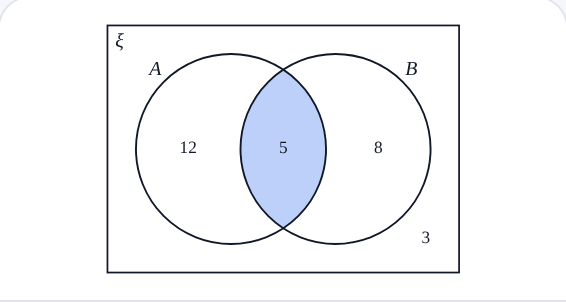
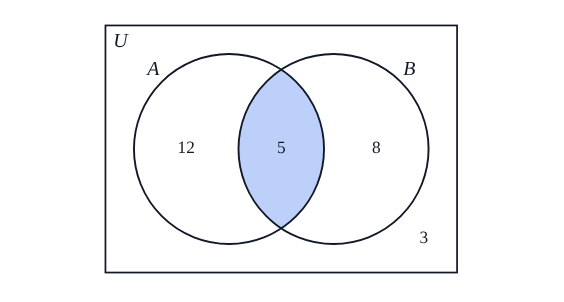
Math Figures: Venn Diagram: commas split text into lines, U by default, no readout
Text typed in a region is split at its commas (not inside brackets) and
stacked one piece to a line, as in a compare-and-contrast Venn of a tomato
and an apple, which is a new example. The region boxes are plain text now,
since the math field dropped the spaces between words, and the settings
column is 40% wide for them. The universal set is marked U unless the
teacher picks ξ. The blue readout of n(…) values under the regions is gone.

diff --git a/apps/math/src/lib/examples/examples.ts b/apps/math/src/lib/examples/examples.ts
@@ -1280,17 +1280,17 @@ export const EXAMPLES: Example[] = [
     {
       slug: 'venn-diagram-football-and-tennis',
       title: 'Venn diagram with numbers: football and tennis',
-      alt: 'A Venn diagram of two overlapping circles, Football and Tennis, in a box marked ξ, with 12 in Football only, 5 in both, 8 in Tennis only and 15 outside',
+      alt: 'A Venn diagram of two overlapping circles, Football and Tennis, in a box marked U, with 12 in Football only, 5 in both, 8 in Tennis only and 15 outside',
       caption:
-        'Two overlapping circles named Football and Tennis inside a box marked ξ for the universal set, with the number of students in each region: 12 play football only, 5 play both, 8 play tennis only, and 15, written outside the circles in the lower left corner, play neither. Students read off totals, such as how many play football, or probabilities.',
+        'Two overlapping circles named Football and Tennis inside a box marked U for the universal set, with the number of students in each region: 12 play football only, 5 play both, 8 play tennis only, and 15, written outside the circles in the lower left corner, play neither. Students read off totals, such as how many play football, or probabilities.',
       settings: { nameA: 'Football', nameB: 'Tennis', values: { a: '12', ab: '5', b: '8', out: '15' } },
     },
     {
       slug: 'three-set-venn-diagram-with-numbers',
       title: 'Three-set Venn diagram with numbers: pets',
-      alt: 'A three-set Venn diagram of Cat, Dog and Fish in a box marked ξ, with a number in each of its eight regions',
+      alt: 'A three-set Venn diagram of Cat, Dog and Fish in a box marked U, with a number in each of its eight regions',
       caption:
-        'Three overlapping circles named Cat, Dog and Fish inside a box marked ξ, with the number of students owning each mix of pets in every region: 9 cat only, 7 dog only, 3 fish only, 4 cat and dog only, 2 cat and fish only, 1 dog and fish only, 2 all three, and 5, in the lower right corner, none of them.',
+        'Three overlapping circles named Cat, Dog and Fish inside a box marked U, with the number of students owning each mix of pets in every region: 9 cat only, 7 dog only, 3 fish only, 4 cat and dog only, 2 cat and fish only, 1 dog and fish only, 2 all three, and 5, in the lower right corner, none of them.',
       settings: {
         sets: 3,
         nameA: 'Cat',
@@ -1304,7 +1304,7 @@ export const EXAMPLES: Example[] = [
       title: 'Venn diagram sorting the numbers 1 to 20: even numbers and multiples of 3',
       alt: 'A Venn diagram sorting the numbers 1 to 20 into two overlapping circles, Even and Multiples of 3, with the numbers in neither outside the circles',
       caption:
-        'The numbers 1 to 20 sorted into two overlapping circles named Even and Multiples of 3, inside a box marked ξ. 2, 4, 8, 10, 14, 16 and 20 are in Even only; 6, 12 and 18 are in both; 3, 9 and 15 are in Multiples of 3 only; and 1, 5, 7, 11, 13, 17 and 19 are outside both circles, in the lower right corner.',
+        'The numbers 1 to 20 sorted into two overlapping circles named Even and Multiples of 3, inside a box marked U. 2, 4, 8, 10, 14, 16 and 20 are in Even only; 6, 12 and 18 are in both; 3, 9 and 15 are in Multiples of 3 only; and 1, 5, 7, 11, 13, 17 and 19 are outside both circles, in the lower right corner.',
       settings: {
         mode: 'elements',
         nameA: 'Even',
@@ -1325,9 +1325,9 @@ export const EXAMPLES: Example[] = [
     {
       slug: 'venn-diagram-shade-a-intersect-b-complement',
       title: 'Venn diagram with A ∩ B′ shaded',
-      alt: 'A Venn diagram of two overlapping circles, A and B, in a box marked ξ, with the part of A outside B hatched and nothing written in the regions',
+      alt: 'A Venn diagram of two overlapping circles, A and B, in a box marked U, with the part of A outside B hatched and nothing written in the regions',
       caption:
-        'Two overlapping circles named A and B inside a box marked ξ, with the region in A but not in B, A ∩ B′, shaded with diagonal hatching that photocopies well. Nothing is written in the regions, so students write the set notation for the shaded region.',
+        'Two overlapping circles named A and B inside a box marked U, with the region in A but not in B, A ∩ B′, shaded with diagonal hatching that photocopies well. Nothing is written in the regions, so students write the set notation for the shaded region.',
       settings: { shaded: ['a'], shade: 'hatch' },
     },
     {
@@ -1335,8 +1335,22 @@ export const EXAMPLES: Example[] = [
       title: 'Venn diagram of probabilities: find x',
       alt: 'A Venn diagram of probabilities with 0.3 in A only, x in the overlap of A and B, 0.25 in B only and 0.15 outside both circles',
       caption:
-        'Two overlapping circles named A and B inside a box marked ξ, with a probability in each region: 0.3 in A only, the unknown x in the overlap, 0.25 in B only, and 0.15 outside both circles in the lower right corner. Students find x, then probabilities such as P(A ∪ B).',
+        'Two overlapping circles named A and B inside a box marked U, with a probability in each region: 0.3 in A only, the unknown x in the overlap, 0.25 in B only, and 0.15 outside both circles in the lower right corner. Students find x, then probabilities such as P(A ∪ B).',
       settings: { mode: 'text', values: { a: '0.3', ab: 'x', b: '0.25', out: '0.15' } },
+    },
+    {
+      slug: 'compare-and-contrast-venn-diagram-tomato-and-apple',
+      title: 'Compare and contrast Venn diagram: tomato and apple',
+      alt: 'A Venn diagram comparing Tomato and Apple, with red flesh, mushy and savory in Tomato only, fruit, round and smooth-skinned in both, and white flesh, firm and sweet in Apple only',
+      caption:
+        'Two overlapping circles named Tomato and Apple, used to compare and contrast. Tomato only lists red flesh, mushy and savory, one to a line; the overlap lists fruit, round and smooth-skinned; Apple only lists white flesh, firm and sweet. The box round them has no symbol for the universal set.',
+      settings: {
+        mode: 'text',
+        nameA: 'Tomato',
+        nameB: 'Apple',
+        universe: 'none',
+        values: { a: 'red flesh, mushy, savory', ab: 'fruit, round, smooth-skinned', b: 'white flesh, firm, sweet' },
+      },
     },
   ]),
 

diff --git a/apps/math/src/lib/generators/venn-diagram/Generator.svelte b/apps/math/src/lib/generators/venn-diagram/Generator.svelte
@@ -13,7 +13,6 @@
   import PickLayer from '$lib/labeling/PickLayer.svelte'
   import Popover from '$lib/labeling/Popover.svelte'
   import type { Part } from '$lib/labeling/pick.js'
-  import MathInput from '$lib/shared/MathInput.svelte'
   import { buildVenn } from './layout.js'
   import VennDiagram from './VennDiagram.svelte'
   import {
@@ -100,7 +99,8 @@
   <input type="checkbox" class="shade" aria-label="Shade {regionName(clean, k)}" checked={isShaded(k)} onchange={(e) => setShaded(k, e.currentTarget.checked)} />
 {/snippet}
 
-<GeneratorPage name="Venn Diagram Generator" {filename} {gen} {svg} bind:labelSize={s.labelSize}>
+<!-- 40% of the window for the settings: the regions take typed text. -->
+<GeneratorPage name="Venn Diagram Generator" {filename} {gen} settingsWidth="minmax(28rem, 40%)" {svg} bind:labelSize={s.labelSize}>
   {#snippet inputs()}
     <section class="card-body">
       <div class="head-row">
@@ -108,7 +108,7 @@
         <HelpTip id="venn-tip" label="How to fill in the diagram">
           Numbers puts one number in each region, such as how many people are in it. Elements sorts lists into the regions for
           you: type the universal set and each set's members with commas between, or a range like 1-20. Repeat an element to
-          put it in twice, as for prime factors. Text writes a letter or expression in each region, like x or 2x + 1. Leave a
+          put it in twice, as for prime factors. Text writes words, a letter or an expression in each region, like x, 2x + 1 or 3/20; commas split it into lines, as in red flesh, mushy, savory. Leave a
           region empty for students to fill in. Click any region on the figure to fill it in or shade it.
         </HelpTip>
       </div>
@@ -118,7 +118,7 @@
 
       {#if clean.mode === 'elements'}
         <div class="lists">
-          <span class="set-name universe" class:word={[...universeText(clean)].length > 1} aria-hidden="true">{universeText(clean) || 'ξ'}</span>
+          <span class="set-name universe" class:word={[...universeText(clean)].length > 1} aria-hidden="true">{universeText(clean) || 'U'}</span>
           <input type="text" aria-label="Members of the universal set" placeholder="1-20" bind:value={s.universeList} />
           {#each NAME_KEYS.slice(0, clean.sets) as key, i}
             <input type="text" class="set-name" aria-label="Name of set {LETTERS[i]}" placeholder={LETTERS[i]} bind:value={s[key]} />
@@ -152,7 +152,7 @@
                 bind:value={() => value(k), (v) => setValue(k, v)}
               />
             {:else}
-              <MathInput id="region-{k}" bind:value={() => value(k), (v) => setValue(k, v)} />
+              <input type="text" class="text" id="region-{k}" bind:value={() => value(k), (v) => setValue(k, v)} />
             {/if}
             {@render shadeBox(k)}
             {#if read.problems.values[k]}<p class="help problem wide">{read.problems.values[k]}</p>{/if}
@@ -160,12 +160,6 @@
         </div>
       {/if}
 
-      {#if read.readout.counts.length || read.readout.members.length}
-        <dl class="readout">
-          {#each read.readout.counts as line}<div><dt>{line.label}</dt><dd>{line.value}</dd></div>{/each}
-          {#each read.readout.members as line}<div class="members"><dt>{line.label}</dt><dd>{line.value}</dd></div>{/each}
-        </dl>
-      {/if}
       {#if drawing.problem}<p class="help problem">{drawing.problem}</p>{/if}
     </section>
   {/snippet}
@@ -213,7 +207,7 @@
     {:else if clean.mode === 'text'}
       <div class="group">
         <span class="name" id="pop-text">Text</span>
-        <MathInput aria-labelledby="pop-text" bind:value={() => value(k), (v) => setValue(k, v)} />
+        <input type="text" aria-labelledby="pop-text" bind:value={() => value(k), (v) => setValue(k, v)} />
       </div>
     {/if}
     <label class="check">
@@ -260,13 +254,6 @@
   .shade { justify-self: center; width: 1.05rem; height: 1.05rem; margin: 0 0.6rem; accent-color: var(--blue); }
 
   /* The counts run on in lines, each kept whole where it fits; each region's members get a line of their own. */
-  .readout { margin: 0; padding: 0.55rem 0.75rem; border-radius: 10px; background: var(--blue-soft); font-size: 0.85rem; font-weight: 600; display: flex; flex-wrap: wrap; gap: 0.2rem 1.1rem; }
-  .readout div { min-width: 0; overflow-wrap: anywhere; }
-  .readout dt, .readout dd { display: inline; margin: 0; }
-  .readout dd::before { content: ' = '; }
-  .readout .members { flex-basis: 100%; }
-  .readout .members dt::after { content: ': '; }
-  .readout .members dd::before { content: none; }
 
   .stage { position: relative; }
   .check { display: flex; align-items: center; gap: 0.5rem; font-weight: 600; font-size: 0.88rem; margin: 0; cursor: pointer; }

diff --git a/apps/math/src/lib/generators/venn-diagram/venn-diagram.test.ts b/apps/math/src/lib/generators/venn-diagram/venn-diagram.test.ts
@@ -3,7 +3,7 @@ import { EXAMPLES } from '$lib/examples/examples'
 import { buildVenn } from './layout.js'
 import { buildRegions, circlesFor, maskAt, pathCovers, type Vec } from './regions.js'
 import {
-  cleanSettings, maskOf, parseList, readVenn, regionsOf, settingsFromParams, settingsToQuery, sortElements, type RawSettings,
+  cleanSettings, maskOf, parseList, readVenn, regionsOf, settingsFromParams, settingsToQuery, sortElements, splitAtCommas, type RawSettings,
 } from './settings.js'
 
 const venn = (s: RawSettings) => buildVenn(cleanSettings(s))
@@ -117,7 +117,7 @@ describe('numbers and text', () => {
 
   test('the readout adds up the regions, leaving out sums with a region unknown', () => {
     const lines = (s: RawSettings) => readVenn(cleanSettings(s)).readout.counts.map((l) => `${l.label} = ${l.value}`)
-    expect(lines({ values: { a: '12', ab: '5', b: '8', out: '3' } })).toEqual(['n(ξ) = 28', 'n(A) = 17', 'n(B) = 13', 'n(A ∩ B) = 5', 'n(A ∪ B) = 25'])
+    expect(lines({ values: { a: '12', ab: '5', b: '8', out: '3' } })).toEqual(['n(U) = 28', 'n(A) = 17', 'n(B) = 13', 'n(A ∩ B) = 5', 'n(A ∪ B) = 25'])
     expect(lines({ values: { a: '12', ab: '5' } })).toEqual(['n(A) = 17', 'n(A ∩ B) = 5'])
     expect(lines({ mode: 'text', values: { a: '12', ab: '5', b: '8', out: '3' } })).toEqual([])
     const three = lines({ sets: 3, nameA: 'Cats', universe: 'U', values: { a: '1', b: '2', ab: '3', c: '4', ac: '5', bc: '6', abc: '7', out: '8' } })
@@ -153,10 +153,10 @@ describe('elements', () => {
     expect(r).toEqual({ ac: ['Ben'], abc: ['Cal'], b: ['Dee'], a: ['Ann'] })
   })
 
-  test('an element missing from ξ, or in two separate sets, is a problem', () => {
+  test('an element missing from the universal set, or in two separate sets, is a problem', () => {
     const problem = (s: RawSettings) => sortElements(cleanSettings({ mode: 'elements', ...s })).problem
-    expect(problem({ universeList: '1-10', listA: '2, 12' })).toBe('12 is in A but not in ξ. Add it to ξ, or take it out of A.')
-    expect(problem({ universeList: '2, 3', listA: '2, 2' })).toBe('2 is in A twice but in ξ once.')
+    expect(problem({ universeList: '1-10', listA: '2, 12' })).toBe('12 is in A but not in U. Add it to U, or take it out of A.')
+    expect(problem({ universeList: '2, 3', listA: '2, 2' })).toBe('2 is in A twice but in U once.')
     expect(problem({ arrangement: 'separate', listA: '1, 2', listB: '2, 3' })).toContain('2 is in both A and B')
     expect(problem({ arrangement: 'subset', listA: '1, 2', listB: '2, 3' })).toContain('3 is in B but not in A')
     expect(problem({ universeList: '1-10', listA: '2, 4', listB: '4, 6' })).toBeNull()
@@ -164,7 +164,7 @@ describe('elements', () => {
 
   test('the readout counts each region and lists its members', () => {
     const read = readVenn(cleanSettings({ mode: 'elements', universeList: '1-6', listA: '2, 4, 6', listB: '3, 6' }))
-    expect(read.readout.counts.map((l) => `${l.label} = ${l.value}`)).toEqual(['n(ξ) = 6', 'n(A) = 3', 'n(B) = 2', 'n(A ∩ B) = 1', 'n(A ∪ B) = 4'])
+    expect(read.readout.counts.map((l) => `${l.label} = ${l.value}`)).toEqual(['n(U) = 6', 'n(A) = 3', 'n(B) = 2', 'n(A ∩ B) = 1', 'n(A ∪ B) = 4'])
     expect(read.readout.members).toEqual([
       { label: 'A only', value: '2, 4' },
       { label: 'A and B', value: '6' },
@@ -245,5 +245,25 @@ describe('examples', () => {
     expect(read.problems.elements).toBeNull()
     expect(read.problems.values).toEqual({})
     expect(buildVenn(s).problem).toBeNull()
+  })
+})
+
+describe('text split at commas', () => {
+  test('commas outside brackets split a region’s text into pieces', () => {
+    expect(splitAtCommas('red flesh, mushy, savory')).toEqual(['red flesh', 'mushy', 'savory'])
+    expect(splitAtCommas('(1, 2), x')).toEqual(['(1, 2)', 'x'])
+    expect(splitAtCommas(' , 3/20 ,')).toEqual(['3/20'])
+  })
+
+  test('the pieces are stacked one to a line, each inside its region', () => {
+    const g = venn({ mode: 'text', values: { a: 'red flesh, mushy, savory', ab: 'fruit, round, smooth-skinned' } })
+    const regionOf = (p: (typeof g.items)[number]) => maskAt(g.circles, [p.x + p.box.w / 2, p.y - p.box.asc / 2])
+    for (const key of ['a', 'ab'] as const) {
+      const pieces = g.items.filter((p) => regionOf(p) === maskOf(key))
+      expect(pieces).toHaveLength(3)
+      // One to a row, top to bottom, none overlapping.
+      expect(new Set(pieces.map((p) => Math.round(p.y))).size).toBe(3)
+      for (let i = 1; i < pieces.length; i++) expect(overlaps(rectOf(pieces[i - 1]), rectOf(pieces[i]))).toBe(false)
+    }
   })
 })

diff --git a/apps/math/src/lib/site/generatorCopy.ts b/apps/math/src/lib/site/generatorCopy.ts
@@ -789,14 +789,14 @@ export const COPY: Record<string, GeneratorCopy> = {
   'venn-diagram': {
     heading: 'Venn diagrams with numbers, elements or shading',
     intro: [
-      'The Venn Diagram Generator draws one, two or three circles inside a box for the universal set, marked ξ unless you choose U, S, ε, a word or nothing. Two sets can overlap, sit apart for mutually exclusive events, or one can sit inside the other for a subset. Each set is named outside its circle, with a letter like A or a word like Football.',
-      'Put a number in each region for counting and probability questions, or a letter or expression like x or 2x + 1 for algebra. Or list the members of each set, or a range like 1-20, and every element is sorted into its region for you, prime factors included. Click any region on the figure to fill it in or shade it, and leave regions empty for students to fill in.',
+      'The Venn Diagram Generator draws one, two or three circles inside a box for the universal set, marked U unless you choose ξ (as GCSE papers write it), S, ε, a word or nothing. Two sets can overlap, sit apart for mutually exclusive events, or one can sit inside the other for a subset. Each set is named outside its circle, with a letter like A or a word like Football.',
+      'Put a number in each region for counting and probability questions, a letter or expression like x or 2x + 1 for algebra, or words to compare and contrast, like red flesh, mushy, savory, one to a line. Or list the members of each set, or a range like 1-20, and every element is sorted into its region for you, prime factors included. Click any region on the figure to fill it in or shade it, and leave regions empty for students to fill in.',
     ],
     settings: [
-      'What goes in each region: a number, the elements of sets you list, or a letter or expression',
+      'What goes in each region: a number, the elements of sets you list, or text, like a letter, an expression or words for comparing two things, with commas splitting it into lines',
       'One, two or three sets; two sets overlapping, separate, or one inside the other',
       'Each set’s name, as a letter or a word',
-      'The universal set’s name: ξ, U, S, ε, a word or nothing',
+      'The universal set’s name: U, ξ, S, ε, a word or nothing',
       'Any regions shaded, in a color tint, gray or a black-and-white pattern',
       'Empty regions left empty or given a blank line for students',
     ],
@@ -818,8 +818,8 @@ export const COPY: Record<string, GeneratorCopy> = {
         a: 'Yes. Type a probability in each region, like 0.3, or choose Text for fractions and unknowns like x. Leave a region empty, or give empty regions a blank line, for students to work out.',
       },
       {
-        q: 'Why ξ for the universal set?',
-        a: 'GCSE papers in England write the universal set as ξ, so it’s the starting choice. U is one click away under Labels, along with S, ε, a word or nothing.',
+        q: 'Can I use ξ for the universal set?',
+        a: 'Yes. The box is marked U to start with; GCSE papers in England write the universal set as ξ, which is one click away under Labels, along with S, ε, a word or nothing.',
       },
     ],
     imageAlt: 'A printable Venn diagram of students who play football and tennis, with the number of students in each region, made with the Venn Diagram Generator',

diff --git a/apps/math/src/lib/generators/venn-diagram/settings.ts b/apps/math/src/lib/generators/venn-diagram/settings.ts
@@ -20,7 +20,7 @@ export const SET_COUNTS = [1, 2, 3] as const
 /** How two sets are drawn: overlapping, apart (mutually exclusive), or B inside A (a subset). */
 export const ARRANGEMENTS = { overlap: 'Overlapping', separate: 'Separate', subset: 'B inside A' } as const
 /** The universal set's name in the top left corner. */
-export const UNIVERSES = { xi: 'ξ', U: 'U', S: 'S', epsilon: 'ε', word: 'Word', none: 'None' } as const
+export const UNIVERSES = { U: 'U', xi: 'ξ', S: 'S', epsilon: 'ε', word: 'Word', none: 'None' } as const
 export const UNIVERSE_SYMBOLS: Partial<Record<Universe, string>> = { xi: 'ξ', U: 'U', S: 'S', epsilon: 'ε' }
 /** What an empty region shows, in numbers and text modes. */
 export const EMPTIES = { none: 'Nothing', line: 'A blank line' } as const
@@ -74,7 +74,7 @@ export const DEFAULT_SETTINGS: Settings = {
   nameA: 'A',
   nameB: 'B',
   nameC: 'C',
-  universe: 'xi', // as GCSE writes it
+  universe: 'U',
   universeWord: '',
   values: {},
   universeList: '',
@@ -290,6 +290,24 @@ export type ReadoutLine = { label: string; value: string }
  * typed, or the elements), the counts as numbers (null where a region's count
  * isn't known), and messages for the settings panel.
  */
+/** Text split at its commas (not those inside brackets, as in (1, 2)): "red flesh, mushy, savory" is three things. */
+export function splitAtCommas(typed: string): string[] {
+  const out: string[] = []
+  let depth = 0
+  let from = 0
+  for (let i = 0; i <= typed.length; i++) {
+    const ch = typed[i]
+    if (ch === '(' || ch === '[' || ch === '{') depth++
+    else if (ch === ')' || ch === ']' || ch === '}') depth = Math.max(0, depth - 1)
+    else if (i === typed.length || (ch === ',' && !depth)) {
+      const piece = typed.slice(from, i).trim()
+      if (piece) out.push(piece)
+      from = i + 1
+    }
+  }
+  return out
+}
+
 export function readVenn(s: Settings) {
   const keys = regionsOf(s.sets, s.arrangement)
   const contents: Partial<Record<RegionKey, string[]>> = {}
@@ -308,7 +326,7 @@ export function readVenn(s: Settings) {
   } else {
     for (const k of keys) {
       const typed = s.values[k]?.trim() ?? ''
-      contents[k] = typed ? [typed] : []
+      contents[k] = s.mode === 'text' ? splitAtCommas(typed) : typed ? [typed] : []
       if (s.mode !== 'numbers') continue
       const v = readValue(typed)
       if (v.bad) problems.values[k] = `“${v.bad}” isn’t a number. Choose Text at the top to write letters or fractions.`

diff --git a/apps/math/src/lib/generators/venn-diagram/layout.ts b/apps/math/src/lib/generators/venn-diagram/layout.ts
@@ -5,6 +5,7 @@
 //
 // What goes in a region is laid out in rows across it, centered on the point
 // farthest from its edges, and every row is kept wholly inside the region.
+// Text split at commas goes one piece to a row, stacked down the region.
 // When something doesn't fit, the whole diagram grows (circles, box and all)
 // rather than the text shrinking.
 
@@ -223,8 +224,10 @@ export function buildVenn(s: Settings) {
         return spans
       }
       const total = list.reduce((t, it) => t + it.w + across, 0)
+      // Text's pieces are stacked, one to a row; elements fill rows across.
+      const stacked = s.mode === 'text'
       for (const together of [true, false]) {
-        for (let k = 1; k <= most; k++) {
+        for (let k = stacked ? list.length : 1; k <= (stacked ? list.length : most); k++) {
           for (let j = 0; j <= most * 2; j++) {
             for (const sign of j ? [1, -1] : [1]) {
               const center = my + (sign * j * rowH) / 2
@@ -235,7 +238,7 @@ export function buildVenn(s: Settings) {
               })
               const room = spans.flat().reduce((t, [a, b]) => t + b - a + across, 0)
               if (room < total) continue
-              for (let cap = Math.ceil(list.length / k); cap <= list.length; cap++) {
+              for (let cap = Math.ceil(list.length / k); cap <= (stacked ? 1 : list.length); cap++) {
                 const spots = fill(list, rows, spans, cap, mx, h, across)
                 if (spots) return spots
               }

diff --git a/apps/math/CONTEXT.md b/apps/math/CONTEXT.md
@@ -455,11 +455,11 @@ One circle of a Venn diagram, named outside it by a letter (A, B, C) or a word (
 _Avoid_: Group, category (that's a bar graph's), circle (fine in speech)
 
 **Universal Set**:
-Everything a Venn diagram is about, drawn as the box round the circles and named in its top left corner: ξ (the default, as GCSE writes it), U, S, ε, a word or nothing. In elements mode its members are typed as a list or a range like 1-20; left empty, it's just the sets' own members.
+Everything a Venn diagram is about, drawn as the box round the circles and named in its top left corner: U (the default), ξ (as GCSE writes it), S, ε, a word or nothing. In elements mode its members are typed as a list or a range like 1-20; left empty, it's just the sets' own members.
 _Avoid_: Universe, sample space (fine in teaching), rectangle
 
 **Region**:
-The part of a Venn diagram inside exactly some of the sets and outside the rest, such as A only (A ∩ B′) or neither: four for two overlapping sets, eight for three, outside included. Each holds a number, a letter or expression, or the elements that belong there, written in rows round its middle; one left empty is drawn empty, or with a blank line when the teacher asks for one. Clicking a region on the figure fills it in or shades it. A shaded region is filled with a tint, gray or a black-and-white pattern, under the circles' outlines.
+The part of a Venn diagram inside exactly some of the sets and outside the rest, such as A only (A ∩ B′) or neither: four for two overlapping sets, eight for three, outside included. Each holds a number, text (split at its commas, one piece to a line, as in red flesh, mushy, savory), or the elements that belong there, written in rows round its middle; one left empty is drawn empty, or with a blank line when the teacher asks for one. Clicking a region on the figure fills it in or shades it. A shaded region is filled with a tint, gray or a black-and-white pattern, under the circles' outlines.
 _Avoid_: Section, area (that's a shape's measure), zone, part
 
 ### 3D shapes
